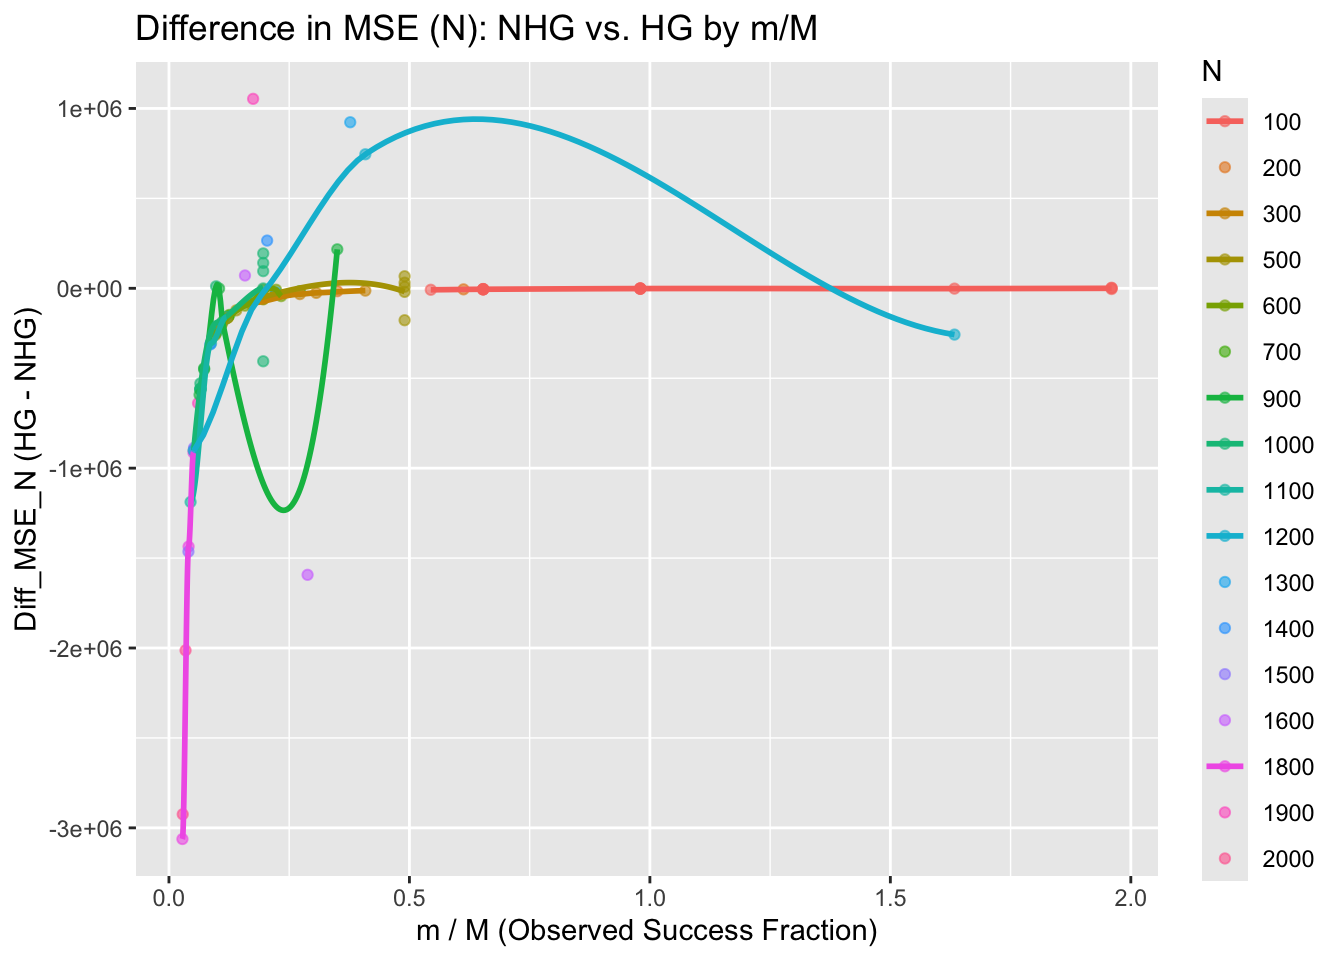
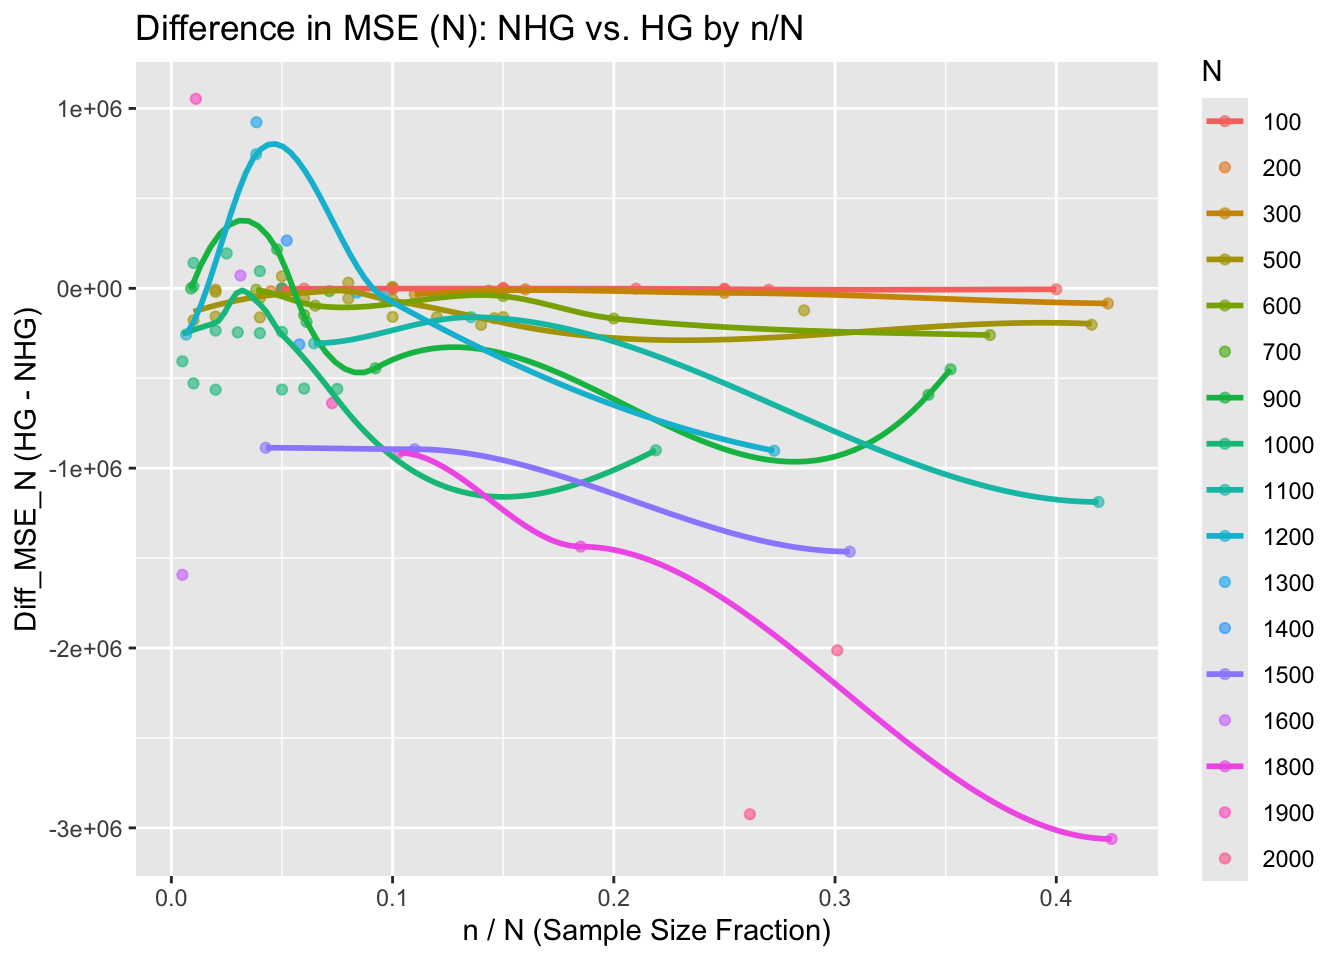
fixed it to n/N instead of m/M for simulations where n is fixed

diff --git a/Simulation_Comparison/nhg_hg_sim_point_estimate.html b/Simulation_Comparison/nhg_hg_sim_point_estimate.html
@@ -683,7 +683,7 @@ MSE for Negative Hypergeometric estimates:</code></pre>
 <span id="cb41-44"><a href="#cb41-44" aria-hidden="true" tabindex="-1"></a>      <span class="at">MSE_NHG_M =</span> result<span class="sc">$</span>MSE_Negative_Hypergeometric<span class="sc">$</span>M,</span>
 <span id="cb41-45"><a href="#cb41-45" aria-hidden="true" tabindex="-1"></a>      <span class="at">Diff_MSE_M =</span> result<span class="sc">$</span>MSE_Hypergeometric<span class="sc">$</span>M <span class="sc">-</span> result<span class="sc">$</span>MSE_Negative_Hypergeometric<span class="sc">$</span>M,</span>
 <span id="cb41-46"><a href="#cb41-46" aria-hidden="true" tabindex="-1"></a>      <span class="at">M_over_N =</span> true_M <span class="sc">/</span> true_N,</span>
-<span id="cb41-47"><a href="#cb41-47" aria-hidden="true" tabindex="-1"></a>      <span class="at">m_over_M =</span> m <span class="sc">/</span> true_M</span>
+<span id="cb41-47"><a href="#cb41-47" aria-hidden="true" tabindex="-1"></a>      <span class="at">n_over_N =</span> n <span class="sc">/</span> true_N</span>
 <span id="cb41-48"><a href="#cb41-48" aria-hidden="true" tabindex="-1"></a>    )</span>
 <span id="cb41-49"><a href="#cb41-49" aria-hidden="true" tabindex="-1"></a>  )</span>
 <span id="cb41-50"><a href="#cb41-50" aria-hidden="true" tabindex="-1"></a>}</span></code><button title="Copy to Clipboard" class="code-copy-button"><i class="bi"></i></button></pre></div>
@@ -726,7 +726,7 @@ MSE for Negative Hypergeometric estimates:</code></pre>
 <span id="cb42-35"><a href="#cb42-35" aria-hidden="true" tabindex="-1"></a>      <span class="at">MSE_NHG_M =</span> result<span class="sc">$</span>MSE_Negative_Hypergeometric<span class="sc">$</span>M,</span>
 <span id="cb42-36"><a href="#cb42-36" aria-hidden="true" tabindex="-1"></a>      <span class="at">Diff_MSE_M =</span> result<span class="sc">$</span>MSE_Hypergeometric<span class="sc">$</span>M <span class="sc">-</span> result<span class="sc">$</span>MSE_Negative_Hypergeometric<span class="sc">$</span>M,</span>
 <span id="cb42-37"><a href="#cb42-37" aria-hidden="true" tabindex="-1"></a>      <span class="at">M_over_N =</span> true_M <span class="sc">/</span> true_N,</span>
-<span id="cb42-38"><a href="#cb42-38" aria-hidden="true" tabindex="-1"></a>      <span class="at">m_over_M =</span> m <span class="sc">/</span> true_M</span>
+<span id="cb42-38"><a href="#cb42-38" aria-hidden="true" tabindex="-1"></a>      <span class="at">n_over_N =</span> n <span class="sc">/</span> true_N</span>
 <span id="cb42-39"><a href="#cb42-39" aria-hidden="true" tabindex="-1"></a>    )</span>
 <span id="cb42-40"><a href="#cb42-40" aria-hidden="true" tabindex="-1"></a>  )</span>
 <span id="cb42-41"><a href="#cb42-41" aria-hidden="true" tabindex="-1"></a>}</span></code><button title="Copy to Clipboard" class="code-copy-button"><i class="bi"></i></button></pre></div>
@@ -749,19 +749,18 @@ MSE for Negative Hypergeometric estimates:</code></pre>
 <ol type="1">
 <li><strong>NHG Performs Better ((</strong>Diff_MSE_N &gt; 0)):
 <ul>
-<li>NHG tends to have lower MSE (positive differences) for (N) when:
+<li>NHG achieves lower MSE for (N) (positive differences) when:
 <ul>
-<li>(M / N) (ratio of successes to population size) is <strong>low</strong> (e.g., below 0.3). This occurs when the population contains a small fraction of successes, and NHG captures sparsity better.</li>
-<li>(m / M) (ratio of observed successes to total successes) is <strong>low</strong> (e.g., below 0.2). Smaller observed samples tend to favor NHG.</li>
+<li><strong>(M / N) is small</strong> (e.g., (&lt; 0.3)), suggesting a sparse population of successes. Sparse populations favor NHG due to its fixed-success sampling mechanism.</li>
+<li><strong>(n / N) is small</strong> (e.g., (&lt; 0.1)), meaning the sample size is small relative to the total population. NHG handles smaller sample sizes better.</li>
 </ul></li>
-<li>The minimum (M / N = 0.025) and (m / M = 0.028) show NHG excels in extremely sparse populations.</li>
 </ul></li>
 <li><strong>HG Performs Better ((</strong>Diff_MSE_N &lt; 0)):
 <ul>
-<li>HG performs better for (N) when:
+<li>HG performs better when:
 <ul>
-<li>(M / N) is <strong>high</strong> (e.g., above 0.5). This suggests a denser population of successes, where HG benefits from its fixed sample size.</li>
-<li>(m / M) is <strong>high</strong> (e.g., above 0.4). Larger observed samples reduce variability, which HG leverages effectively.</li>
+<li><strong>(M / N) is moderate to high</strong> (e.g., (&gt; 0.5)), indicating denser populations of successes. This aligns with HG’s fixed-sample-size design.</li>
+<li><strong>(n / N) is moderate to high</strong> (e.g., (&gt; 0.1)), meaning larger samples are drawn relative to the population size.</li>
 </ul></li>
 </ul></li>
 </ol>
@@ -771,18 +770,18 @@ MSE for Negative Hypergeometric estimates:</code></pre>
 <ol type="1">
 <li><strong>NHG Performs Better ((</strong>Diff_MSE_M &gt; 0)):
 <ul>
-<li>NHG has lower MSE (positive differences) for (M) when:
+<li>NHG achieves lower MSE for (M) when:
 <ul>
-<li>The ratio (m / M) is <strong>low</strong> (e.g., below 0.2). Smaller observed successes relative to total successes favor NHG’s fixed success framework.</li>
-<li>This aligns with cases where (N) is large and (M / N) is small, making the population sparse.</li>
+<li><strong>(M / N) is small</strong> (e.g., (&lt; 0.3)), consistent with sparsity favoring NHG.</li>
+<li><strong>(n / N) is small</strong> (e.g., (&lt; 0.1)), reinforcing NHG’s robustness in smaller sample scenarios.</li>
 </ul></li>
 </ul></li>
 <li><strong>HG Performs Better ((</strong>Diff_MSE_M &lt; 0)):
 <ul>
-<li>HG performs better for (M) when:
+<li>HG performs better when:
 <ul>
-<li>The ratio (m / M) approaches or exceeds 0.5. This means a significant portion of the successes in the population are observed, and HG benefits from the fixed sample size.</li>
-<li>(M / N) is moderate to high (e.g., above 0.3), suggesting denser populations.</li>
+<li><strong>(M / N) is high</strong> (e.g., (&gt; 0.5)), indicating denser populations.</li>
+<li><strong>(n / N) is high</strong> (e.g., (&gt; 0.1)), where HG benefits from its larger fixed sample sizes.</li>
 </ul></li>
 </ul></li>
 </ol>
@@ -792,13 +791,13 @@ MSE for Negative Hypergeometric estimates:</code></pre>
 <ul>
 <li><strong>Impact of (M / N)</strong>:
 <ul>
-<li>NHG performs better when (M / N) is small, suggesting NHG is more effective for sparse populations.</li>
-<li>HG outperforms NHG when (M / N) increases, especially as it approaches 1.</li>
+<li>NHG tends to perform better as (M / N) decreases, aligning with scenarios of sparsity.</li>
+<li>HG excels as (M / N) increases, particularly when the success density is high ((M / N &gt; 0.5)).</li>
 </ul></li>
-<li><strong>Impact of (m / M)</strong>:
+<li><strong>Impact of (n / N)</strong>:
 <ul>
-<li>NHG has an advantage for lower values of (m / M) (below 0.2), where fewer successes are observed.</li>
-<li>HG tends to excel as (m / M) increases, especially when (m / M &gt; 0.4).</li>
+<li>NHG outperforms HG when (n / N) is small, reflecting its effectiveness in scenarios with limited sampling.</li>
+<li>HG surpasses NHG when (n / N) increases, benefiting from its stable performance in larger fixed sample sizes.</li>
 </ul></li>
 </ul>
 </section>
@@ -806,15 +805,15 @@ MSE for Negative Hypergeometric estimates:</code></pre>
 <section id="summary-interpretation-1" class="level3">
 <h3 class="anchored" data-anchor-id="summary-interpretation-1">Summary Interpretation</h3>
 <ul>
-<li><strong>NHG excels</strong> in situations where:
+<li><strong>NHG Excels</strong>:
 <ul>
-<li>The population is sparse ((M / N) is low).</li>
-<li>The number of observed successes is small relative to the total successes ((m / M) is low).</li>
+<li>Sparse populations: (M / N) is small.</li>
+<li>Small samples: (n / N) is small.</li>
 </ul></li>
-<li><strong>HG excels</strong> when:
+<li><strong>HG Excels</strong>:
 <ul>
-<li>The population is dense ((M / N) is high).</li>
-<li>The number of observed successes is large relative to the total successes ((m / M) is high).</li>
+<li>Dense populations: (M / N) is large.</li>
+<li>Larger samples: (n / N) is moderate to large.</li>
 </ul></li>
 </ul>
 </section>
@@ -856,13 +855,13 @@ MSE for Negative Hypergeometric estimates:</code></pre>
 </div>
 </div>
 <div class="cell">
-<div class="sourceCode cell-code" id="cb47"><pre class="sourceCode r code-with-copy"><code class="sourceCode r"><span id="cb47-1"><a href="#cb47-1" aria-hidden="true" tabindex="-1"></a><span class="co"># Plot 2: Diff_MSE_N vs. m/M</span></span>
-<span id="cb47-2"><a href="#cb47-2" aria-hidden="true" tabindex="-1"></a><span class="fu">ggplot</span>(combined_results_2, <span class="fu">aes</span>(<span class="at">x =</span> m_over_M, <span class="at">y =</span> Diff_MSE_N, <span class="at">color =</span> <span class="fu">as.factor</span>(N))) <span class="sc">+</span></span>
+<div class="sourceCode cell-code" id="cb47"><pre class="sourceCode r code-with-copy"><code class="sourceCode r"><span id="cb47-1"><a href="#cb47-1" aria-hidden="true" tabindex="-1"></a><span class="co"># Plot 2: Diff_MSE_N vs. n/N</span></span>
+<span id="cb47-2"><a href="#cb47-2" aria-hidden="true" tabindex="-1"></a><span class="fu">ggplot</span>(combined_results_2, <span class="fu">aes</span>(<span class="at">x =</span> n_over_N, <span class="at">y =</span> Diff_MSE_N, <span class="at">color =</span> <span class="fu">as.factor</span>(N))) <span class="sc">+</span></span>
 <span id="cb47-3"><a href="#cb47-3" aria-hidden="true" tabindex="-1"></a>  <span class="fu">geom_point</span>(<span class="at">alpha =</span> <span class="fl">0.6</span>) <span class="sc">+</span></span>
 <span id="cb47-4"><a href="#cb47-4" aria-hidden="true" tabindex="-1"></a>  <span class="fu">geom_smooth</span>(<span class="at">method =</span> <span class="st">"loess"</span>, <span class="at">se =</span> <span class="cn">FALSE</span>) <span class="sc">+</span></span>
 <span id="cb47-5"><a href="#cb47-5" aria-hidden="true" tabindex="-1"></a>  <span class="fu">labs</span>(</span>
-<span id="cb47-6"><a href="#cb47-6" aria-hidden="true" tabindex="-1"></a>    <span class="at">title =</span> <span class="st">"Difference in MSE (N): NHG vs. HG by m/M"</span>,</span>
-<span id="cb47-7"><a href="#cb47-7" aria-hidden="true" tabindex="-1"></a>    <span class="at">x =</span> <span class="st">"m / M (Observed Success Fraction)"</span>,</span>
+<span id="cb47-6"><a href="#cb47-6" aria-hidden="true" tabindex="-1"></a>    <span class="at">title =</span> <span class="st">"Difference in MSE (N): NHG vs. HG by n/N"</span>,</span>
+<span id="cb47-7"><a href="#cb47-7" aria-hidden="true" tabindex="-1"></a>    <span class="at">x =</span> <span class="st">"n / N (Sample Size Fraction)"</span>,</span>
 <span id="cb47-8"><a href="#cb47-8" aria-hidden="true" tabindex="-1"></a>    <span class="at">y =</span> <span class="st">"Diff_MSE_N (HG - NHG)"</span>,</span>
 <span id="cb47-9"><a href="#cb47-9" aria-hidden="true" tabindex="-1"></a>    <span class="at">color =</span> <span class="st">"N"</span></span>
 <span id="cb47-10"><a href="#cb47-10" aria-hidden="true" tabindex="-1"></a>  ) </span></code><button title="Copy to Clipboard" class="code-copy-button"><i class="bi"></i></button></pre></div>
@@ -873,11 +872,11 @@ MSE for Negative Hypergeometric estimates:</code></pre>
 </figure>
 </div>
 </div>
-<div class="sourceCode cell-code" id="cb48"><pre class="sourceCode r code-with-copy"><code class="sourceCode r"><span id="cb48-1"><a href="#cb48-1" aria-hidden="true" tabindex="-1"></a><span class="fu">ggplot</span>(combined_results_2, <span class="fu">aes</span>(<span class="at">x =</span> m_over_M, <span class="at">y =</span> Diff_MSE_N, <span class="at">color =</span> <span class="fu">as.factor</span>(N))) <span class="sc">+</span></span>
+<div class="sourceCode cell-code" id="cb48"><pre class="sourceCode r code-with-copy"><code class="sourceCode r"><span id="cb48-1"><a href="#cb48-1" aria-hidden="true" tabindex="-1"></a><span class="fu">ggplot</span>(combined_results_2, <span class="fu">aes</span>(<span class="at">x =</span> n_over_N, <span class="at">y =</span> Diff_MSE_N, <span class="at">color =</span> <span class="fu">as.factor</span>(N))) <span class="sc">+</span></span>
 <span id="cb48-2"><a href="#cb48-2" aria-hidden="true" tabindex="-1"></a>  <span class="fu">geom_point</span>(<span class="at">alpha =</span> <span class="fl">0.6</span>) <span class="sc">+</span></span>
 <span id="cb48-3"><a href="#cb48-3" aria-hidden="true" tabindex="-1"></a>  <span class="fu">labs</span>(</span>
-<span id="cb48-4"><a href="#cb48-4" aria-hidden="true" tabindex="-1"></a>    <span class="at">title =</span> <span class="st">"Difference in MSE (N): NHG vs. HG by m/M"</span>,</span>
-<span id="cb48-5"><a href="#cb48-5" aria-hidden="true" tabindex="-1"></a>    <span class="at">x =</span> <span class="st">"m / M (Observed Success Fraction)"</span>,</span>
+<span id="cb48-4"><a href="#cb48-4" aria-hidden="true" tabindex="-1"></a>    <span class="at">title =</span> <span class="st">"Difference in MSE (N): NHG vs. HG by n/N"</span>,</span>
+<span id="cb48-5"><a href="#cb48-5" aria-hidden="true" tabindex="-1"></a>    <span class="at">x =</span> <span class="st">"n / N (Sample Size Fraction)"</span>,</span>
 <span id="cb48-6"><a href="#cb48-6" aria-hidden="true" tabindex="-1"></a>    <span class="at">y =</span> <span class="st">"Diff_MSE_N (HG - NHG)"</span>,</span>
 <span id="cb48-7"><a href="#cb48-7" aria-hidden="true" tabindex="-1"></a>    <span class="at">color =</span> <span class="st">"N"</span></span>
 <span id="cb48-8"><a href="#cb48-8" aria-hidden="true" tabindex="-1"></a>  ) </span></code><button title="Copy to Clipboard" class="code-copy-button"><i class="bi"></i></button></pre></div>
@@ -924,13 +923,13 @@ MSE for Negative Hypergeometric estimates:</code></pre>
 </div>
 </div>
 <div class="cell">
-<div class="sourceCode cell-code" id="cb51"><pre class="sourceCode r code-with-copy"><code class="sourceCode r"><span id="cb51-1"><a href="#cb51-1" aria-hidden="true" tabindex="-1"></a><span class="co"># Plot 4: Diff_MSE_M vs. m/M</span></span>
-<span id="cb51-2"><a href="#cb51-2" aria-hidden="true" tabindex="-1"></a><span class="fu">ggplot</span>(combined_results_2, <span class="fu">aes</span>(<span class="at">x =</span> m_over_M, <span class="at">y =</span> Diff_MSE_M, <span class="at">color =</span> <span class="fu">as.factor</span>(N))) <span class="sc">+</span></span>
+<div class="sourceCode cell-code" id="cb51"><pre class="sourceCode r code-with-copy"><code class="sourceCode r"><span id="cb51-1"><a href="#cb51-1" aria-hidden="true" tabindex="-1"></a><span class="co"># Plot 4: Diff_MSE_M vs. n/N</span></span>
+<span id="cb51-2"><a href="#cb51-2" aria-hidden="true" tabindex="-1"></a><span class="fu">ggplot</span>(combined_results_2, <span class="fu">aes</span>(<span class="at">x =</span> n_over_N, <span class="at">y =</span> Diff_MSE_M, <span class="at">color =</span> <span class="fu">as.factor</span>(N))) <span class="sc">+</span></span>
 <span id="cb51-3"><a href="#cb51-3" aria-hidden="true" tabindex="-1"></a>  <span class="fu">geom_point</span>(<span class="at">alpha =</span> <span class="fl">0.6</span>) <span class="sc">+</span></span>
 <span id="cb51-4"><a href="#cb51-4" aria-hidden="true" tabindex="-1"></a>  <span class="fu">geom_smooth</span>(<span class="at">method =</span> <span class="st">"loess"</span>, <span class="at">se =</span> <span class="cn">FALSE</span>) <span class="sc">+</span></span>
 <span id="cb51-5"><a href="#cb51-5" aria-hidden="true" tabindex="-1"></a>  <span class="fu">labs</span>(</span>
 <span id="cb51-6"><a href="#cb51-6" aria-hidden="true" tabindex="-1"></a>    <span class="at">title =</span> <span class="st">"Difference in MSE (M): NHG vs. HG by m/M"</span>,</span>
-<span id="cb51-7"><a href="#cb51-7" aria-hidden="true" tabindex="-1"></a>    <span class="at">x =</span> <span class="st">"m / M (Observed Success Fraction)"</span>,</span>
+<span id="cb51-7"><a href="#cb51-7" aria-hidden="true" tabindex="-1"></a>    <span class="at">x =</span> <span class="st">"n / N (Sample Size Fraction)"</span>,</span>
 <span id="cb51-8"><a href="#cb51-8" aria-hidden="true" tabindex="-1"></a>    <span class="at">y =</span> <span class="st">"Diff_MSE_M (HG - NHG)"</span>,</span>
 <span id="cb51-9"><a href="#cb51-9" aria-hidden="true" tabindex="-1"></a>    <span class="at">color =</span> <span class="st">"N"</span></span>
 <span id="cb51-10"><a href="#cb51-10" aria-hidden="true" tabindex="-1"></a>  ) </span></code><button title="Copy to Clipboard" class="code-copy-button"><i class="bi"></i></button></pre></div>
@@ -941,11 +940,11 @@ MSE for Negative Hypergeometric estimates:</code></pre>
 </figure>
 </div>
 </div>
-<div class="sourceCode cell-code" id="cb52"><pre class="sourceCode r code-with-copy"><code class="sourceCode r"><span id="cb52-1"><a href="#cb52-1" aria-hidden="true" tabindex="-1"></a><span class="fu">ggplot</span>(combined_results_2, <span class="fu">aes</span>(<span class="at">x =</span> m_over_M, <span class="at">y =</span> Diff_MSE_M, <span class="at">color =</span> <span class="fu">as.factor</span>(N))) <span class="sc">+</span></span>
+<div class="sourceCode cell-code" id="cb52"><pre class="sourceCode r code-with-copy"><code class="sourceCode r"><span id="cb52-1"><a href="#cb52-1" aria-hidden="true" tabindex="-1"></a><span class="fu">ggplot</span>(combined_results_2, <span class="fu">aes</span>(<span class="at">x =</span> n_over_N, <span class="at">y =</span> Diff_MSE_M, <span class="at">color =</span> <span class="fu">as.factor</span>(N))) <span class="sc">+</span></span>
 <span id="cb52-2"><a href="#cb52-2" aria-hidden="true" tabindex="-1"></a>  <span class="fu">geom_point</span>(<span class="at">alpha =</span> <span class="fl">0.6</span>) <span class="sc">+</span></span>
 <span id="cb52-3"><a href="#cb52-3" aria-hidden="true" tabindex="-1"></a>  <span class="fu">labs</span>(</span>
-<span id="cb52-4"><a href="#cb52-4" aria-hidden="true" tabindex="-1"></a>    <span class="at">title =</span> <span class="st">"Difference in MSE (M): NHG vs. HG by m/M"</span>,</span>
-<span id="cb52-5"><a href="#cb52-5" aria-hidden="true" tabindex="-1"></a>    <span class="at">x =</span> <span class="st">"m / M (Observed Success Fraction)"</span>,</span>
+<span id="cb52-4"><a href="#cb52-4" aria-hidden="true" tabindex="-1"></a>    <span class="at">title =</span> <span class="st">"Difference in MSE (M): NHG vs. HG by n/N"</span>,</span>
+<span id="cb52-5"><a href="#cb52-5" aria-hidden="true" tabindex="-1"></a>    <span class="at">x =</span> <span class="st">"n / N (Sample Size Fraction)"</span>,</span>
 <span id="cb52-6"><a href="#cb52-6" aria-hidden="true" tabindex="-1"></a>    <span class="at">y =</span> <span class="st">"Diff_MSE_M (HG - NHG)"</span>,</span>
 <span id="cb52-7"><a href="#cb52-7" aria-hidden="true" tabindex="-1"></a>    <span class="at">color =</span> <span class="st">"N"</span></span>
 <span id="cb52-8"><a href="#cb52-8" aria-hidden="true" tabindex="-1"></a>  ) </span></code><button title="Copy to Clipboard" class="code-copy-button"><i class="bi"></i></button></pre></div>
